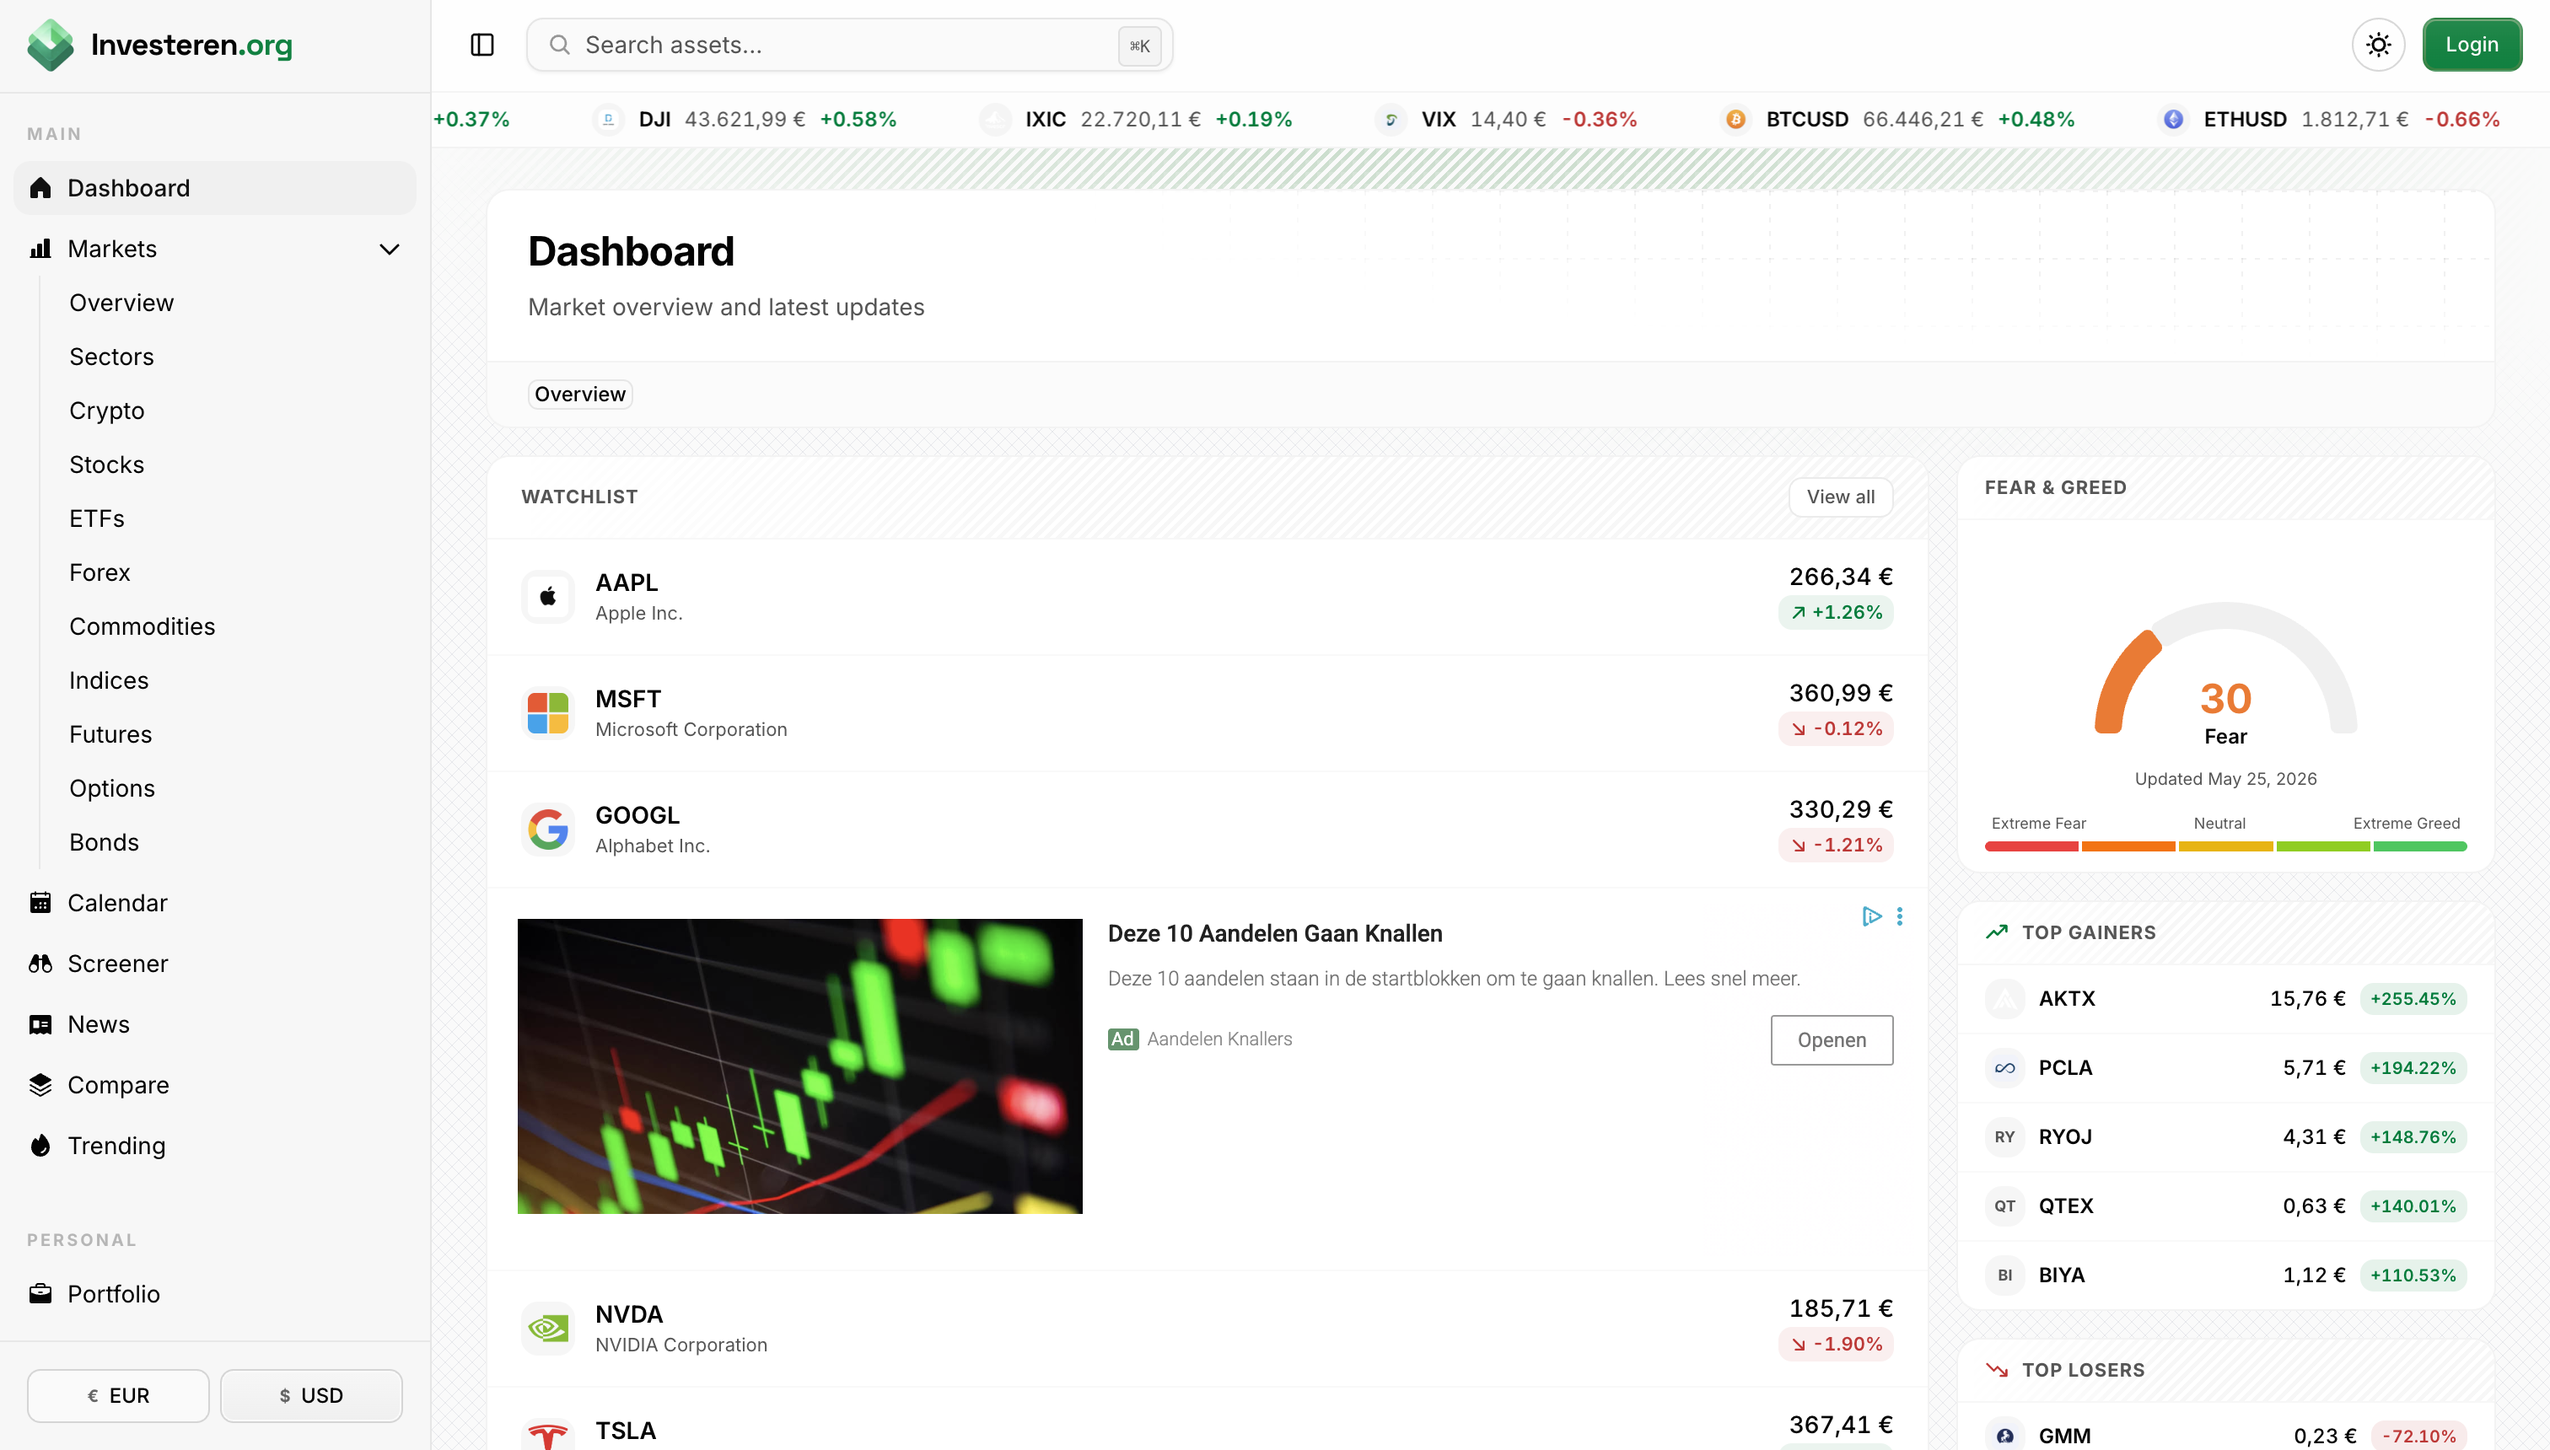
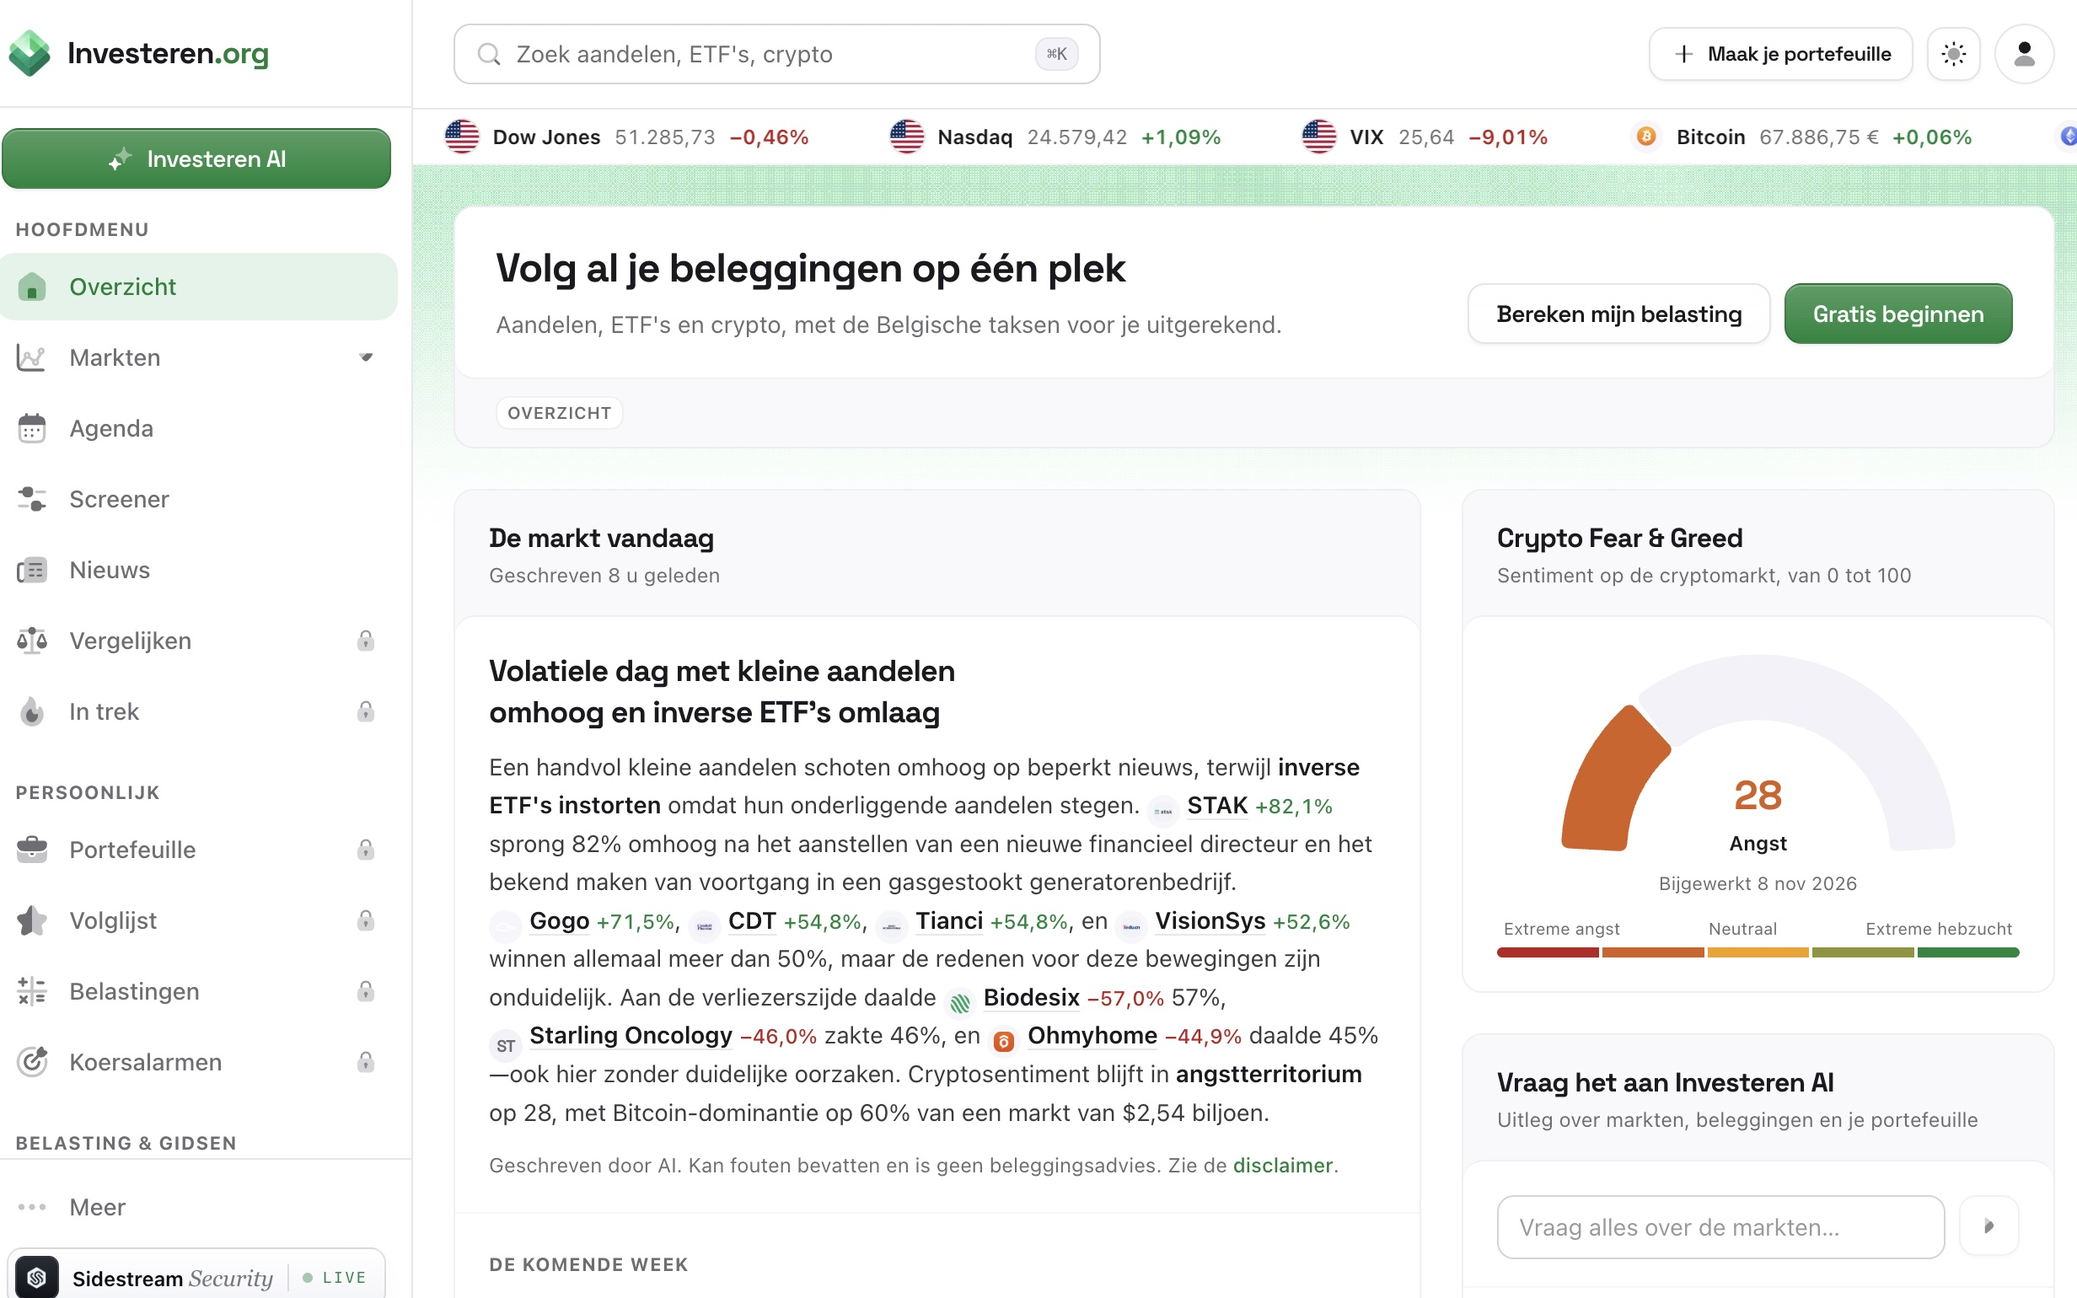
Remove Dazzap, refresh live product screenshots
Drop Dazzap from live products (data, card color, scripts, meta description,
assets). Retake Trapspotter, Leopol, Ticketbalie and Investeren screenshots
from a real Chrome session so no cookie banners show.

diff --git a/index.html b/index.html
@@ -5,7 +5,7 @@
     <link rel="icon" type="image/svg+xml" href="/favicon.svg" />
     <meta name="viewport" content="width=device-width, initial-scale=1.0" />
     <title>Achile Batier — Founder & Chief Engineer · Ghent</title>
-    <meta name="description" content="Founder & Chief Engineer in Ghent. I ship web products end to end — Trapspotter, Leopol, Ticketbalie, OpenMail, Investeren, Dazzap, Sidestream." />
+    <meta name="description" content="Founder & Chief Engineer in Ghent. I ship web products end to end — Trapspotter, Leopol, Ticketbalie, OpenMail, Investeren, Sidestream." />
     <meta property="og:title" content="Achile Batier — Founder & Chief Engineer" />
     <meta property="og:description" content="I ship web products end to end — across ticketing, streaming, fintech and mobile. Based in Ghent, Belgium." />
     <meta property="og:type" content="website" />

diff --git a/src/data/projects.ts b/src/data/projects.ts
@@ -92,20 +92,6 @@ export const liveProjects: Project[] = [
     accent: '#facc15',
   },
   {
-    slug: 'dazzap',
-    name: 'Dazzap',
-    tagline: 'Streaming infrastructure for live experiences',
-    description:
-      'Full streaming platform with chat, real-time data, QR-driven flows, PDF export and content management. WhatsApp Business integration for customer ops.',
-    year: '2025',
-    role: 'Chief Engineer',
-    stack: ['React 19', 'Vite', 'Supabase', 'Stripe', 'Radix UI'],
-    url: 'https://dazzap.com',
-    image: '/assets/screenshots/dazzap.jpg',
-    favicon: '/assets/favicons/dazzap.png',
-    accent: '#ec4899',
-  },
-  {
     slug: 'sidestream',
     name: 'Sidestream',
     tagline: 'A product studio in Ghent — software that keeps running',

diff --git a/src/components/ProjectCard.tsx b/src/components/ProjectCard.tsx
@@ -42,7 +42,6 @@ const cornerColor: Record<string, string> = {
   ticketbalie: '#3b82f6', // blue
   openmail: '#475569', // dark gray
   investeren: '#22c55e', // green
-  dazzap: '#a855f7', // purple
 }
 
 const RAINBOW =
